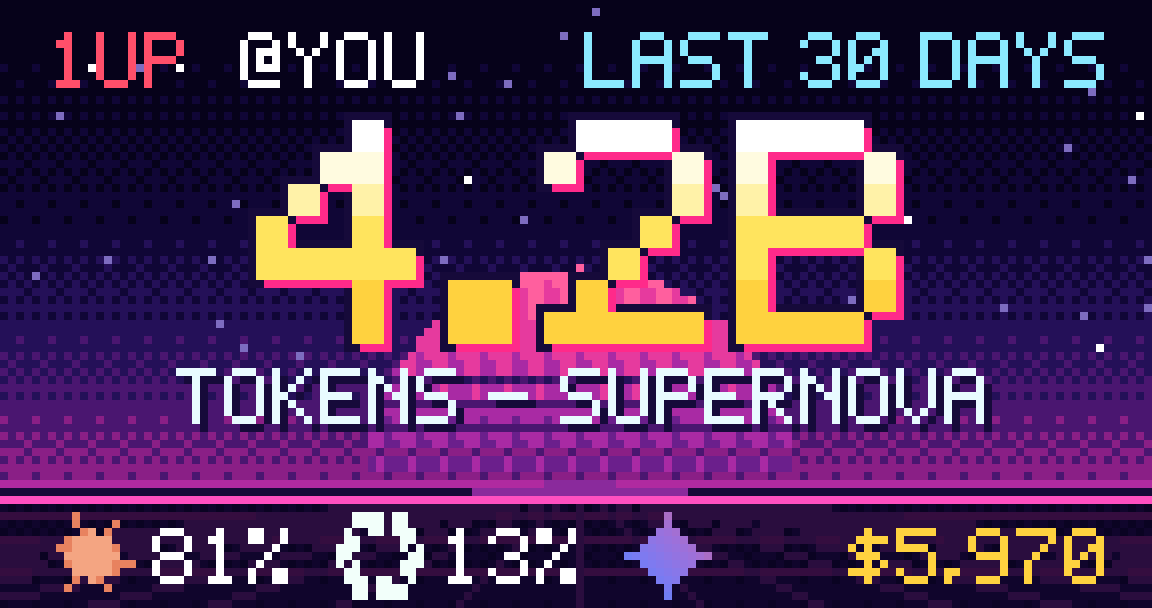
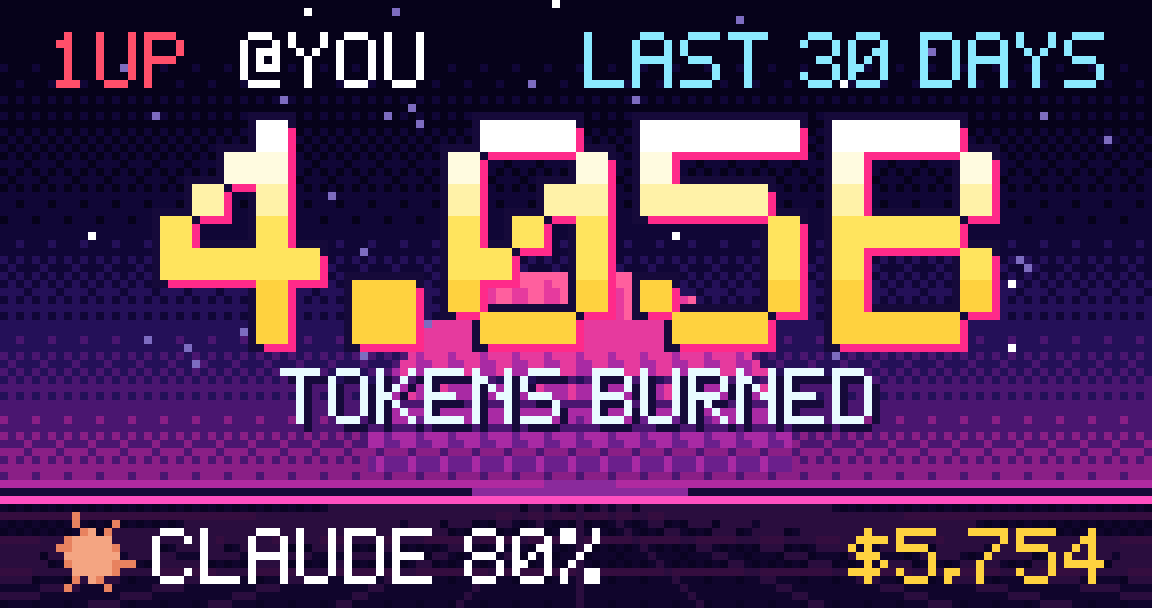
Clearer cards, cards saved to a git-ignored folder, docs say install globally
- Big numbers: 1px shadow so B no longer looks like 8
- Top brand shows its name, costs are labelled, galaxy shows a plain burn rank
- Cards save to ./tokenburn-cards/ (folder ignores itself in git)
- README/prompt: -g install, npx option, 30-day default
- Drop accidental self-dependency; bump to 0.2.0

diff --git a/src/themes/galaxy.js b/src/themes/galaxy.js
@@ -1,7 +1,8 @@
 import { rng } from '../canvas.js';
 import { logo } from '../logos.js';
-import { fmtTokens, fmtMoney, fmtPct } from '../format.js';
-import { W, H, header, levelFrac, activeLabel } from './shared.js';
+import { fmtTokens, fmtMoney } from '../format.js';
+import { measure } from '../font.js';
+import { W, H, header, brandStrip, levelFrac, activeLabel, fit } from './shared.js';
 
 const SPACE = ['#03051a', '#070c2e', '#101a4a', '#1a1f66'];
 const SUN = ['#fffbe0', '#ffe884', '#ffb43a', '#ff7a1a', '#d94a12'];
@@ -9,12 +10,12 @@ const SUN = ['#fffbe0', '#ffe884', '#ffb43a', '#ff7a1a', '#d94a12'];
 export default {
   id: 'galaxy',
   name: 'Galaxy',
-  description: 'Your burn as a star system: every AI you use is a planet. Kardashev-approved.',
+  description: 'Your burn as a star system: every AI you use is a planet.',
   draw(cv, stats, ctx) {
     const rand = rng((stats.tokens % 1e9) | 0 || 5);
     const lv = levelFrac(stats);
     const cx = 106;
-    const cy = 36;
+    const cy = 33;
     const r = 6 + Math.round(lv * 8);
 
     // Deep space with a soft nebula glow behind the star.
@@ -38,8 +39,7 @@ export default {
 
     // Orbits (dotted ellipses) + planets, one per top brand.
     const planets = stats.brands.filter((b) => b.share >= 0.005).slice(0, 3);
-    const angles = [-35, 35, 112];
-    const labelBelow = [false, true, true];
+    const angles = [-38, 28, 78];
     const rxs = [r + 13, r + 23, r + 32];
     const orbitCol = '#3a4694';
     rxs.slice(0, Math.max(planets.length, 1)).forEach((rx) => {
@@ -71,20 +71,25 @@ export default {
       const sp = logo(p.brand, 12);
       for (const [dx, dy] of [[-1, 0], [1, 0], [0, -1], [0, 1]]) cv.blitTint(sp, px + dx, py + dy, '#03051a');
       cv.blit(sp, px, py);
-      cv.text(fmtPct(p.share), px + 6, labelBelow[i] ? py + 14 : py - 9, { color: '#c9d2ff', align: 'center', shadow: '#03051a' });
     });
 
     // Left column.
     header(cv, stats, { left: ctx.name || 'TOKENBURN', leftColor: '#ffb43a', rightColor: '#9aa6e8' });
-    cv.text(fmtTokens(stats.tokens), 6, 15, {
+    cv.text(fmtTokens(stats.tokens), 6, 14, {
       scale: 3,
       shadow: '#0d1440',
       rowColors: ['#ffffff', '#fff2b8', '#ffe27a', '#ffcf5a', '#ffb43a', '#ff9a2a', '#ff8a1f'],
     });
-    cv.text('TOKENS BURNED', 6, 39, { color: '#9aa6e8' });
-    const K = Math.log10(Math.max(10, stats.tokens)) / 10;
-    cv.text('KARDASHEV', 6, 50, { color: '#6c7ac8' });
-    cv.text(`TYPE ${K.toFixed(2)}`, 6, 58, { color: '#ffe27a' });
-    cv.text(ctx.showCost ? fmtMoney(stats.cost) : activeLabel(stats), 6, 67, { color: '#7fe0c0' });
+    cv.text('TOKENS BURNED', 6, 37, { color: '#9aa6e8' });
+    cv.text('BURN RANK', 6, 46, { color: '#6c7ac8' });
+    cv.text(stats.tier.name, 6, 54, { color: '#ffe27a' });
+
+    // Legend strip: who the planets are. Brand names take priority over the "COST" word.
+    cv.rect(0, 63, W, H - 63, '#03051acc');
+    cv.rect(0, 63, W, 1, '#1a1f66');
+    const bare = ctx.showCost ? fmtMoney(stats.cost) : activeLabel(stats);
+    const end = brandStrip(cv, stats, 6, 65, { size: 11, max: 3, gap: 6, color: '#c9d2ff', maxX: W - 12 - measure(bare) });
+    const cost = ctx.showCost ? fit([`COST ${bare}`, bare], W - 12 - end - 6) : bare;
+    cv.text(cost, W - 6, 67, { color: '#7fe0c0', align: 'right' });
   },
 };

diff --git a/src/cli.js b/src/cli.js
@@ -1,6 +1,7 @@
+import { readFileSync } from 'node:fs';
 import { mkdir, writeFile } from 'node:fs/promises';
 import { homedir } from 'node:os';
-import { dirname, resolve } from 'node:path';
+import { dirname, join, resolve } from 'node:path';
 import { parseArgs } from 'node:util';
 import { Canvas } from './canvas.js';
 import { fetchRaw, buildRecords, summarize, demoRecords, toJSON, UserError } from './data.js';
@@ -9,6 +10,7 @@ import { fmtTokens, fmtMoney } from './format.js';
 import { THEMES, THEME_IDS } from './themes/index.js';
 import { W, H } from './themes/shared.js';
 
+const DEFAULT_DIR = 'tokenburn-cards';
 const PNG_SCALE = 8; // each card pixel becomes 8x8 screen pixels -> 1152x608
 
 const HELP = `
@@ -24,8 +26,8 @@ const HELP = `
   OPTIONS
     -t, --theme <name>    ${THEME_IDS.join(' | ')} | all | random   (default: furnace)
     -n, --name <text>     handle to show on the card, e.g. @you
-    -o, --out <file>      where to save the PNG (default: ./tokenburn-<duration>-<theme>.png)
-        --out-dir <dir>   save into a folder (handy with --theme all)
+    -o, --out <file>      save the PNG to this exact file
+        --out-dir <dir>   save into this folder (default: ./${DEFAULT_DIR}/, which git ignores)
     -c, --client <list>   only count some tools, e.g. claude,codex
         --since <date>    start of the window
         --until <date>    end of the window
@@ -39,7 +41,7 @@ const HELP = `
     -v, --version         show the version
 
   EXAMPLES
-    tokenburn                       # last 30 days
+    tokenburn                       # last 30 days (the default)
     tokenburn 7d -t arcade
     tokenburn all -t galaxy -n @you
     tokenburn 1h                    # what did the last hour cost me?
@@ -49,7 +51,7 @@ const HELP = `
   Hour-level precision: usage is counted in whole-hour buckets.
 `;
 
-const VERSION = '0.1.0';
+const VERSION = JSON.parse(readFileSync(new URL('../package.json', import.meta.url), 'utf8')).version;
 
 export async function main(argv) {
   let parsed;
@@ -111,6 +113,7 @@ export async function main(argv) {
     THEMES[id].draw(cv, stats, ctx);
     const file = outPath({ out: v.out, outDir: v['out-dir'], slug: period.slug, id });
     await mkdir(dirname(file), { recursive: true });
+    if (!v.out && !v['out-dir']) await ignoreFolder(dirname(file));
     await writeFile(file, cv.toPNG(PNG_SCALE));
     outputs.push({ id, file, cv });
   }
@@ -147,7 +150,12 @@ function normalizeName(n) {
 
 function outPath({ out, outDir, slug, id }) {
   if (out) return resolve(out);
-  return resolve(outDir ?? '.', `tokenburn-${slug}-${id}.png`);
+  return resolve(outDir ?? DEFAULT_DIR, `tokenburn-${slug}-${id}.png`);
+}
+
+/** Cards are personal, so the default folder ignores itself in git ("*" ignores this file too). */
+async function ignoreFolder(dir) {
+  await writeFile(join(dir, '.gitignore'), '*\n', { flag: 'wx' }).catch(() => {});
 }
 
 function prettyPath(p) {

diff --git a/src/themes/shared.js b/src/themes/shared.js
@@ -14,23 +14,23 @@ export function header(cv, stats, { y = 4, left, leftColor, rightColor, shadow =
 }
 
 /**
- * Row of brand logos with their share of the burn, e.g. [logo] 72%.
- * Returns the x where it ended so callers can place things after it.
+ * Row of brand logos with their share of the burn. The top brand also shows its name
+ * ([logo] CLAUDE 81% [logo] 13%); a lone brand shows just its name. Returns the end x.
  */
 export function brandStrip(cv, stats, x, y, { size = 12, max = 3, gap = 6, color = '#ffffff', minShare = 0.005, outline = null, maxX = W } = {}) {
   let cx = x;
   const items = stats.brands.filter((b) => b.share >= minShare).slice(0, max);
   for (const [i, b] of items.entries()) {
+    const pct = fmtPct(b.share);
+    const options = i === 0 ? (items.length === 1 ? [b.name, pct] : [`${b.name} ${pct}`, pct]) : [pct];
+    const label = options.find((l) => cx + size + 2 + measure(l) <= maxX);
+    if (!label) break; // never run into what's on the right
     const sp = logo(b.brand, size);
     if (outline) {
       for (const [dx, dy] of [[-1, 0], [1, 0], [0, -1], [0, 1]]) cv.blitTint(sp, cx + dx, y + dy, outline);
     }
     cv.blit(sp, cx, y);
-    // A lone brand gets its name; several brands get their share of the burn.
-    const label = items.length === 1 ? b.name : fmtPct(b.share);
-    if (i > 0 && cx + size + 2 + measure(label) > maxX) break; // never run into what's on the right
-    const ty = y + Math.floor((size - 7) / 2);
-    cv.text(label, cx + size + 2, ty, { color: color === 'brand' ? b.color : color });
+    cv.text(label, cx + size + 2, y + Math.floor((size - 7) / 2), { color: color === 'brand' ? b.color : color });
     cx += size + 2 + measure(label) + gap;
   }
   return cx - gap;
@@ -57,4 +57,9 @@ export const levelFrac = (stats) => Math.min(1, Math.max(0, stats.tier.level / s
 export function activeLabel(stats) {
   const span = (stats.period.end - (stats.period.start ?? 0)) / 3600000;
   return stats.period.start && span <= 48 ? `${stats.activeHours}H ACTIVE` : `${stats.activeDays}D ACTIVE`;
+}
+
+/** First candidate that fits in `room` pixels (falls back to the last one). */
+export function fit(candidates, room) {
+  return candidates.find((c) => measure(c) <= room) ?? candidates[candidates.length - 1];
 }

diff --git a/src/themes/arcade.js b/src/themes/arcade.js
@@ -1,7 +1,7 @@
 import { rng } from '../canvas.js';
 import { fmtTokens, fmtMoney } from '../format.js';
 import { measure } from '../font.js';
-import { W, H, brandStrip, activeLabel } from './shared.js';
+import { W, H, brandStrip, activeLabel, fit } from './shared.js';
 
 const SKY = ['#06021a', '#100636', '#241058', '#4a1670', '#8a1f86'];
 const HORIZON = 60;
@@ -65,13 +65,14 @@ export default {
     if (ctx.name && 6 + 24 + measure(ctx.name) + measure(label) + 8 < W) cv.text(ctx.name, 6 + 24, 4, { color: '#ffffff' });
 
     // Caption under the score.
-    cv.text(`TOKENS - ${stats.tier.name}`, sx, 46, { color: '#e8fbff', align: 'center', shadow: '#160a3a' });
+    cv.text('TOKENS BURNED', sx, 46, { color: '#e8fbff', align: 'center', shadow: '#160a3a' });
 
     // Bottom panel: brands + spend.
     cv.rect(0, 62, W, H - 62, '#06021ab8');
     cv.rect(0, 62, W, 1, '#ff4fc0');
-    const right = ctx.showCost ? fmtMoney(stats.cost) : activeLabel(stats);
-    cv.text(right, W - 6, 66, { color: '#ffd23f', align: 'right' });
-    brandStrip(cv, stats, 6, 64, { size: 11, max: 3, gap: 6, color: '#ffffff', maxX: W - 12 - measure(right) });
+    const end = brandStrip(cv, stats, 6, 64, { size: 11, max: 3, gap: 6, color: '#ffffff', maxX: W - 40 });
+    const right = ctx.showCost ? [`COST ${fmtMoney(stats.cost)}`, fmtMoney(stats.cost)] : [activeLabel(stats)];
+    const costText = fit(right, W - 12 - end - 6);
+    cv.text(costText, W - 6, 66, { color: '#ffd23f', align: 'right' });
   },
 };

diff --git a/src/themes/furnace.js b/src/themes/furnace.js
@@ -70,18 +70,18 @@ export default {
     cv.rect(0, 61, W, 1, '#3a0f1c');
 
     // Text.
-    header(cv, stats, { left: 'TOKENBURN', leftColor: '#ff8a1f', rightColor: '#d9a98c' });
+    header(cv, stats, { left: ctx.name || 'TOKENBURN', leftColor: '#ff8a1f', rightColor: '#d9a98c' });
     cv.text(fmtTokens(stats.tokens), 6, 14, {
       scale: 4,
       shadow: '#5a1414',
       rowColors: ['#fff4b0', '#ffe26a', '#ffcf3a', '#ffb02a', '#ff8f22', '#f77a1c', '#ee6618'],
     });
     cv.text('TOKENS BURNED', 6, 45, { color: '#e0a582' });
-    const spend = ctx.showCost ? `${fmtMoney(stats.cost)} SPENT` : activeLabel(stats);
+    const spend = ctx.showCost ? `COST ${fmtMoney(stats.cost)}` : activeLabel(stats);
     cv.text(spend, 6, 53, { color: '#ffc23a' });
 
-    const tag = ctx.name ? ctx.name : `★ ${stats.tier.name}`;
-    cv.text(tag, W - 6, 66, { color: '#ff8a1f', align: 'right' });
-    brandStrip(cv, stats, 6, 63, { size: 11, max: 3, gap: 5, color: '#f3d9c4', maxX: W - 12 - measure(tag) });
+    const end = brandStrip(cv, stats, 6, 63, { size: 11, max: 3, gap: 5, color: '#f3d9c4' });
+    const tag = `\u2605 ${stats.tier.name}`;
+    if (end + 10 + measure(tag) <= W - 6) cv.text(tag, W - 6, 66, { color: '#ff8a1f', align: 'right' });
   },
 };

diff --git a/src/themes/quest.js b/src/themes/quest.js
@@ -47,7 +47,9 @@ export default {
     cv.rect(5, 5, W - 10, 11, '#2b1d5e');
     cv.rect(5, 15, W - 10, 1, goldDark);
     cv.text(`LV ${level} ${cls}`, 8, 8, { color: gold });
-    cv.text('\u2605', W - 9, 8, { color: gold, align: 'right' });
+    const titleRoom = W - 16 - measure(`LV ${level} ${cls}`) - 8;
+    const when = [stats.period.label, stats.period.short].find((c) => measure(c) <= titleRoom);
+    if (when) cv.text(when, W - 8, 8, { color: '#b7a8ff', align: 'right' });
 
     // Portrait.
     const px = 8;
@@ -65,9 +67,7 @@ export default {
     // Big number + period.
     const bx = 50;
     cv.text(fmtTokens(stats.tokens), bx, 18, { scale: 3, shadow: '#0d0820', rowColors: ['#ffffff', '#ffffff', '#ffe27a', '#ffe27a', '#ffcf5a', '#ffcf5a', '#ffb43a'] });
-    const room = W - 8 - bx;
-    const cap = [`TOKENS - ${stats.period.short}`, stats.period.label, stats.period.short].find((c) => measure(c) <= room);
-    cv.text(cap, bx, 41, { color: '#b7a8ff' });
+    cv.text('TOKENS BURNED', bx, 41, { color: '#b7a8ff' });
 
     // Stat bars (log-scaled so a tiny share still shows).
     const scaleFrac = (v) => Math.max(0.04, Math.min(1, Math.log10(v + 1) / Math.log10(stats.tokens + 1)));

diff --git a/test/cli.test.js b/test/cli.test.js
@@ -1,0 +1,25 @@
+import test from 'node:test';
+import assert from 'node:assert/strict';
+import { mkdtemp, readFile, readdir, rm } from 'node:fs/promises';
+import { tmpdir } from 'node:os';
+import { join } from 'node:path';
+import { main } from '../src/cli.js';
+
+test('cards go in a self-ignoring folder, not the current directory', async () => {
+  const cwd = process.cwd();
+  const dir = await mkdtemp(join(tmpdir(), 'tokenburn-cli-'));
+  process.chdir(dir);
+  const log = console.log;
+  console.log = () => {};
+  try {
+    await main(['--demo', '--no-preview']); // no duration given: the 30-day default
+    assert.deepEqual((await readdir(dir)).sort(), ['tokenburn-cards']);
+    const files = (await readdir(join(dir, 'tokenburn-cards'))).sort();
+    assert.deepEqual(files, ['.gitignore', 'tokenburn-30d-furnace.png']);
+    assert.equal(await readFile(join(dir, 'tokenburn-cards', '.gitignore'), 'utf8'), '*\n');
+  } finally {
+    console.log = log;
+    process.chdir(cwd);
+    await rm(dir, { recursive: true, force: true });
+  }
+});

diff --git a/src/canvas.js b/src/canvas.js
@@ -219,7 +219,7 @@ export class Canvas {
         cx += advance(ch) * scale;
       }
     };
-    if (shadow) draw(scale, scale, shadow, null);
+    if (shadow) draw(1, 1, shadow, null); // 1 card-pixel offset keeps the counters of B/8/0 open
     draw(0, 0, color, rowColors);
     return w;
   }

diff --git a/README.md b/README.md
@@ -18,10 +18,10 @@ It's a CLI that makes shareable pixel-art cards of my AI token usage.
 3. Ask me which time window (1h, 24h, 7d, 30d, 90d, all), which theme
    (furnace, arcade, galaxy, quest), and whether to show my handle and cost.
    Then run: tokenburn <window> -t <theme> --no-preview
-   and tell me where the PNG card was saved.
+   and tell me where the PNG card was saved (it goes in ./tokenburn-cards/).
 4. Finish by giving me the two commands to use anytime:
-   npm i -g @uvesflow/tokenburn
-   tokenburn
+   npm i -g @uvesflow/tokenburn   (install, once)
+   tokenburn                      (makes a 30-day card by default)
 
 If you can't run commands yourself, just walk me through these steps.
 ```
@@ -42,6 +42,8 @@ Requires Node 18+ and [tokscale](https://github.com/junhoyeo/tokscale) (`npm i -
 npm i -g @uvesflow/tokenburn
 ```
 
+Use `-g` (global). Without it the `tokenburn` command isn't added to your PATH. To try it without installing anything, run `npx @uvesflow/tokenburn`.
+
 Or from source:
 
 ```bash
@@ -53,7 +55,7 @@ npm link
 Then:
 
 ```bash
-tokenburn                 # last 30 days, saved as a PNG in the current folder
+tokenburn                 # last 30 days (the default), saved to ./tokenburn-cards/
 ```
 
 ## Usage
@@ -74,13 +76,15 @@ tokenburn --demo                       # try it with made-up data
 
 **Themes:** `furnace` (default), `arcade`, `galaxy`, `quest`, plus `all` and `random`. `tokenburn --list-themes` describes them.
 
-The card is saved as a 1152x608 PNG (the pixels are drawn at 144x76 and scaled up 8x with hard edges, so it stays crisp). On a terminal at least 144 columns wide the card is also drawn inline: screenshot that if you prefer. Use `--no-preview` to skip it or `--preview` to force it.
+Cards are saved in a `tokenburn-cards/` folder in the current directory. That folder ignores itself in git, so your cards never get committed by accident. Use `--out-dir <folder>` or `-o <file>` to save elsewhere.
+
+Each card is a 1152x608 PNG (the pixels are drawn at 144x76 and scaled up 8x with hard edges, so it stays crisp). On a terminal at least 144 columns wide the card is also drawn inline: screenshot that if you prefer. Use `--no-preview` to skip it or `--preview` to force it.
 
 ## What's on a card
 
 - Total tokens (input + output + cache reads/writes, the same definition tokscale uses) and, optionally, estimated cost
 - The AI brands you burned tokens on, with pixel logos and their share (Claude, OpenAI, Gemini, Grok, Cursor, Copilot and generic badges for the rest)
-- A burn rank that grows with the total (SPARK, EMBER, CAMPFIRE, BONFIRE, INFERNO, SUPERNOVA, STAR FORGE, DYSON SWARM), and per theme extras such as a bonfire that scales with the rank, a Kardashev-scale number, or RPG level and class
+- A burn rank that grows with the total (SPARK, EMBER, CAMPFIRE, BONFIRE, INFERNO, SUPERNOVA, STAR FORGE, DYSON SWARM), and per theme extras such as a bonfire that scales with the rank, or RPG level and class
 - Your handle if you pass `--name`
 
 Cards contain **only aggregate numbers**. No project names, paths, prompts or session ids ever reach the image.

diff --git a/AGENTS.md b/AGENTS.md
@@ -7,9 +7,9 @@ The user pasted this repo's URL because they want a shareable card of their AI t
    (no `npm link`? run `node bin/tokenburn.js` instead of `tokenburn`).
 3. Ask the user, in one message: which window (`1h`, `24h`, `7d`, `30d`, `90d`, `all`, or `--since/--until` dates), which theme (`furnace`, `arcade`, `galaxy`, `quest`, or `all`), whether to show their handle (`-n @handle`) and whether to show the dollar amount. Defaults: `30d`, `furnace`, no handle, cost shown.
 4. Run: `tokenburn <window> -t <theme> [-n @handle] [--no-cost] --no-preview`
-5. Tell them where the PNG was saved and open it for them.
+5. Tell them where the PNG was saved (`./tokenburn-cards/`, git-ignored) and open it for them.
 6. Finish by giving the user the two commands to use anytime:
-   - `npm i -g @uvesflow/tokenburn` (install)
-   - `tokenburn` (make a card; add a window like `7d` or a theme like `-t arcade`)
+   - `npm i -g @uvesflow/tokenburn` (install once; it must be global, `-g`)
+   - `tokenburn` (makes a 30-day card by default; add a window like `7d` or a theme like `-t arcade`)
 
 Notes: cards contain only totals and percentages (no project names or prompts). No usage history? Add `--demo` to preview with fake data. Never upload or publish the card for them; they share it themselves. `tokenburn --help` lists every option.
